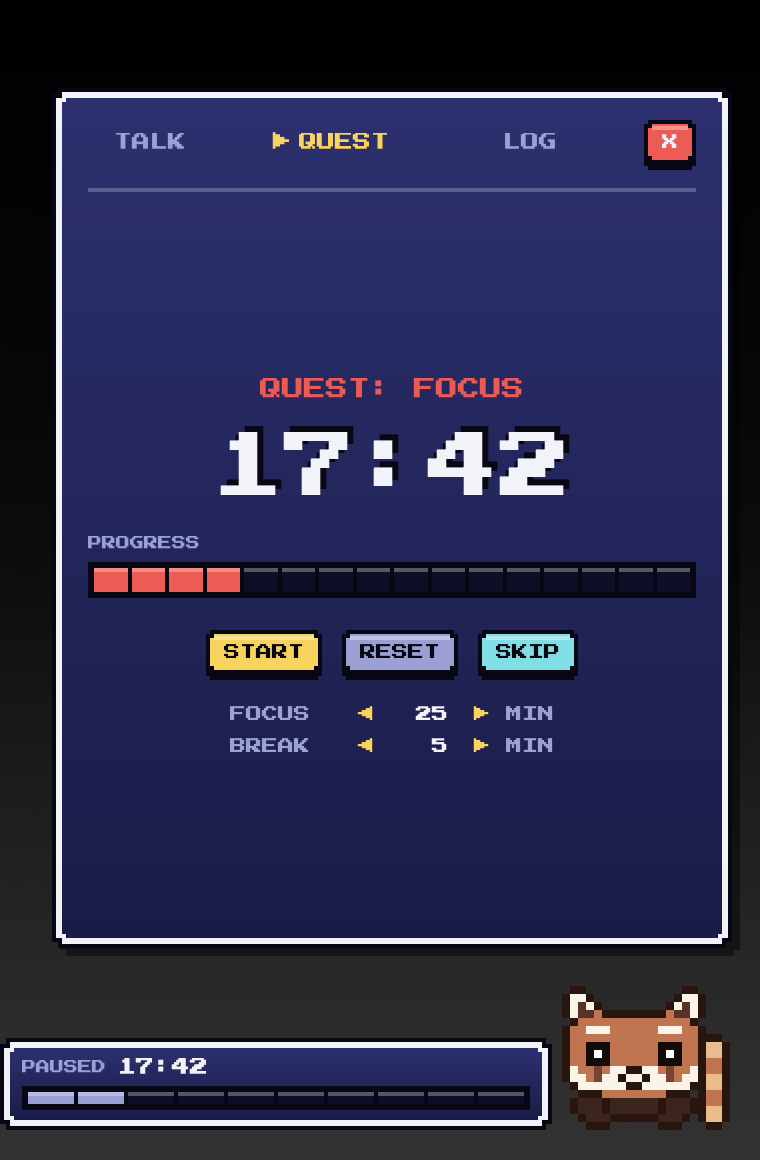
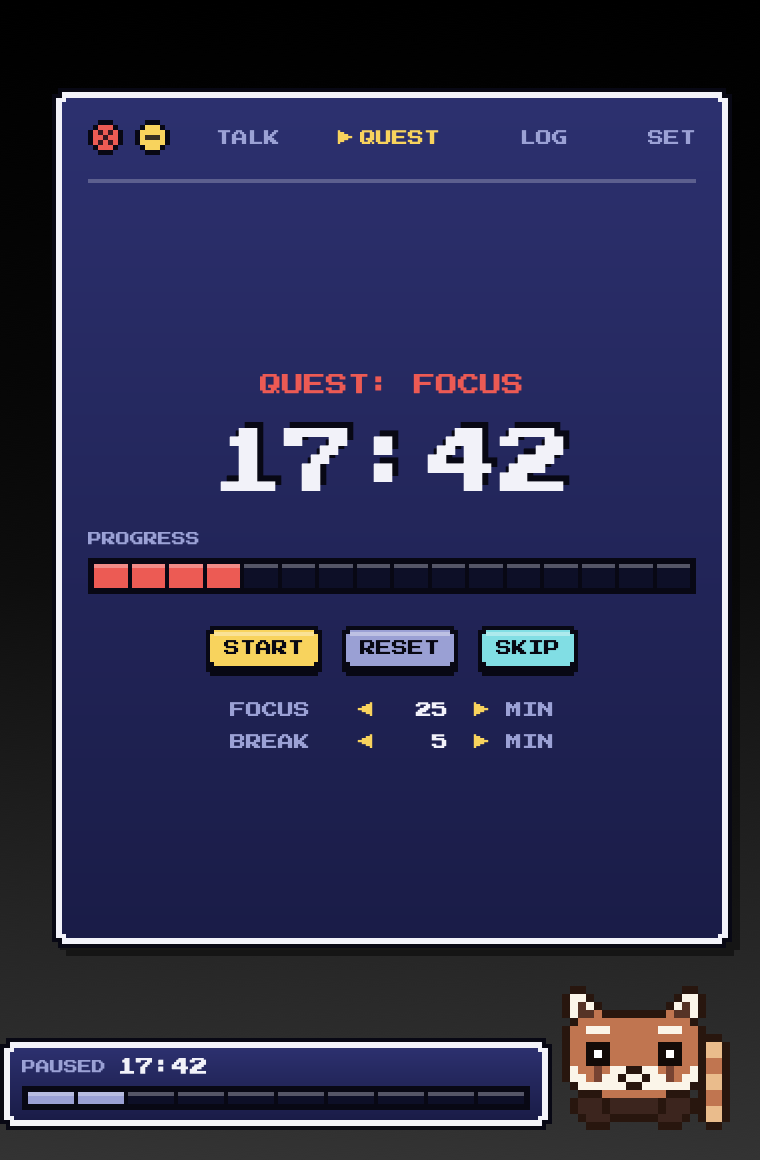
Add Mac-style quit and minimize buttons to Pip's menu
A pixel red button (Command-Q) quits the app; a yellow button
(Command-M) hides Pip to the menu bar while it keeps running. Escape
and clicking Pip still close just the menu.

diff --git a/Sources/CardView.swift b/Sources/CardView.swift
@@ -52,6 +52,17 @@ struct FeatureCard: View {
     var body: some View {
         VStack(alignment: .leading, spacing: 12) {
             HStack(spacing: 0) {
+                // Window buttons, like the red and yellow ones on a Mac window.
+                HStack(spacing: 6) {
+                    WindowDot(kind: .close) { m.onQuit?() }
+                        .help("Quit Pip")
+                        .keyboardShortcut("q", modifiers: .command)
+                    WindowDot(kind: .minimize) { m.onMinimize?() }
+                        .help("Minimize Pip. Bring it back from the menu bar icon.")
+                        .keyboardShortcut("m", modifiers: .command)
+                }
+                .padding(.trailing, 12)
+
                 ForEach(Tab.allCases) { t in
                     Button {
                         if tab != t { Chiptune.blip() }
@@ -67,15 +78,18 @@ struct FeatureCard: View {
                         .contentShape(Rectangle())
                     }
                     .buttonStyle(.plain)
-                    Spacer(minLength: 4)
+                    if t != Tab.allCases.last { Spacer(minLength: 4) }
                 }
-                Button("X") {
+            }
+            // Escape still closes just the menu.
+            .background(
+                Button("") {
                     Chiptune.close()
                     withAnimation(.easeOut(duration: 0.15)) { m.expanded = false }
                 }
-                .buttonStyle(PixelButtonStyle(color: GameColor.red, textColor: GameColor.text))
                 .keyboardShortcut(.cancelAction)
-            }
+                .opacity(0)
+            )
             Rectangle().fill(GameColor.border.opacity(0.25)).frame(height: 2)
 
             switch tab {
@@ -365,6 +379,49 @@ struct PixelToggle: View {
                     Text(detail).font(GameFont.body(17)).foregroundStyle(GameColor.dim)
                 }
             }
+            .contentShape(Rectangle())
+        }
+        .buttonStyle(.plain)
+    }
+}
+
+// MARK: - Window buttons
+
+/// A pixel-art version of the red and yellow buttons on a Mac window.
+struct WindowDot: View {
+    enum Kind { case close, minimize }
+    let kind: Kind
+    let action: () -> Void
+
+    static let ring = [
+        "..KKK..",
+        ".KFFFK.",
+        "KFFFFFK",
+        "KFFFFFK",
+        "KFFFFFK",
+        ".KFFFK.",
+        "..KKK..",
+    ]
+
+    var body: some View {
+        Button(action: action) {
+            Canvas { ctx, _ in
+                let s: CGFloat = 2.5
+                let fill = kind == .close ? GameColor.red : GameColor.yellow
+                func dot(_ c: Int, _ r: Int, _ color: Color) {
+                    ctx.fill(Path(CGRect(x: CGFloat(c) * s, y: CGFloat(r) * s, width: s, height: s)), with: .color(color))
+                }
+                for (r, row) in Self.ring.enumerated() {
+                    for (c, ch) in row.enumerated() where ch != "." {
+                        dot(c, r, ch == "K" ? GameColor.outline : fill)
+                    }
+                }
+                // × or − in the middle
+                let mark = GameColor.outline.opacity(0.8)
+                let symbol = kind == .close ? [(2, 2), (4, 2), (3, 3), (2, 4), (4, 4)] : [(2, 3), (3, 3), (4, 3)]
+                for (c, r) in symbol { dot(c, r, mark) }
+            }
+            .frame(width: 17.5, height: 17.5)
             .contentShape(Rectangle())
         }
         .buttonStyle(.plain)

diff --git a/Sources/main.swift b/Sources/main.swift
@@ -51,6 +51,8 @@ final class AppDelegate: NSObject, NSApplicationDelegate {
 
     func applicationDidFinishLaunching(_ notification: Notification) {
         GameFont.register()
+        model.onMinimize = { [weak self] in self?.minimizePip() }
+        model.onQuit = { [weak self] in self?.quitFromCard() }
         // Recompute the mood when the timer or chat state changes. Deferred one
         // runloop turn because @Published fires before the new value is stored.
         model.pomodoro.objectWillChange.merge(with: model.chat.objectWillChange)
@@ -106,6 +108,18 @@ final class AppDelegate: NSObject, NSApplicationDelegate {
         scheduleBlink()
 
         #if DEBUG
+        if ProcessInfo.processInfo.environment["PIP_TEST_BUTTONS"] != nil {
+            model.expanded = true
+            model.notes.text += "\nsaved-before-quit"
+            DispatchQueue.main.asyncAfter(deadline: .now() + 1) {
+                self.model.onMinimize?()  // same path as the yellow button
+                print("after minimize: visible=\(self.panel.isVisible) menuOpen=\(self.model.expanded) polling=\(self.pollTimer != nil)")
+                self.toggleVisible()  // menu bar: Show Pip
+                print("after Show Pip: visible=\(self.panel.isVisible) polling=\(self.pollTimer != nil)")
+                print("pressing quit")
+                self.model.onQuit?()  // same path as the red button
+            }
+        }
         if ProcessInfo.processInfo.environment["PIP_TEST_SLEEP"] != nil {
             let center = NSWorkspace.shared.notificationCenter
             print("lid closed now:", Self.isLidClosed())
@@ -389,6 +403,24 @@ final class AppDelegate: NSObject, NSApplicationDelegate {
             startTimers()
         }
     }
+    /// Yellow button: tuck Pip away. The app keeps running in the menu bar
+    /// (timers keep counting) until you choose Show Pip there.
+    func minimizePip() {
+        Chiptune.close()
+        model.expanded = false
+        model.notes.saveNow()
+        awayBySystem = false
+        panel.orderOut(nil)
+        stopTimers()
+    }
+
+    /// Red button: quit the whole app.
+    func quitFromCard() {
+        Chiptune.close()
+        // Give the short sound a moment to play before quitting.
+        DispatchQueue.main.asyncAfter(deadline: .now() + 0.12) { NSApp.terminate(nil) }
+    }
+
     @objc func openChat() { openTab(.chat) }
     @objc func openTimer() { openTab(.timer) }
     @objc func openNotes() { openTab(.notes) }

diff --git a/Sources/PetModel.swift b/Sources/PetModel.swift
@@ -53,6 +53,10 @@ final class PetModel: ObservableObject {
     let chat = ChatModel()
     let notes = NotesModel()
 
+    /// Set by the app: the yellow and red window buttons in the menu.
+    var onMinimize: (() -> Void)?
+    var onQuit: (() -> Void)?
+
     var lastPetted = Date.distantPast
     var idleSince = Date()
 

diff --git a/README.md b/README.md
@@ -90,6 +90,11 @@ set. Pip finds it in the usual install locations or through your login shell.
 ## Using Pip
 
 - **Click Pip** to open or close the menu. Press Escape to close it too.
+- **The red and yellow buttons** at the top-left of the menu work like a Mac
+  window's. Red (×, or Command-Q) quits Pip completely. Yellow (−, or
+  Command-M) minimizes Pip: it disappears but keeps running in the menu bar,
+  so timers keep counting. Choose Show Pip from the menu bar icon to bring it
+  back.
 - **The game controller icon** in the menu bar has everything else: show or
   hide Pip, move it to the screen your cursor is on, jump to a tab, start a
   focus session, pick a character, toggle naps and sound effects, toggle Open
